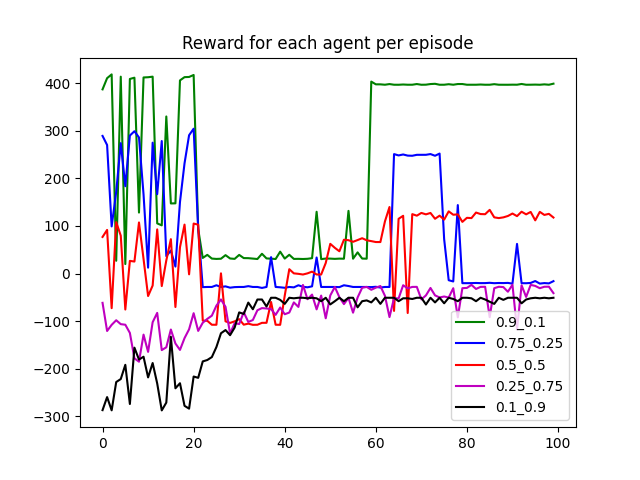
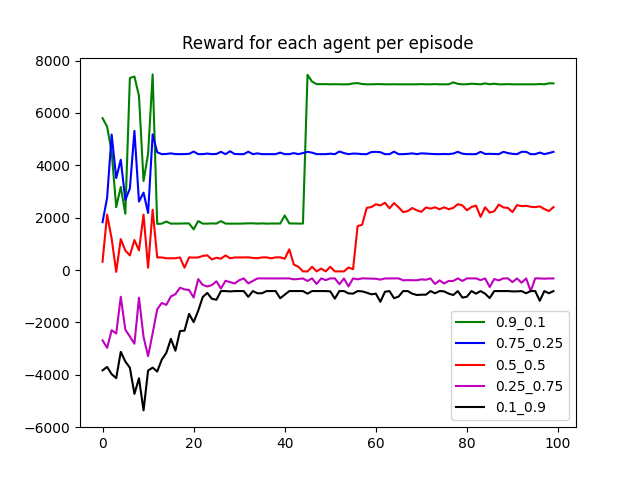
managed to train agents successfully

diff --git a/train/env/ModelEnv.py b/train/env/ModelEnv.py
@@ -119,20 +119,20 @@ class ModelEnv(gym.Env):
                 if type(module) in self.quantizable_acts:
                     self.quantizable_idx.append(i)
                     self.layer_types.append(type(module))
-                    this_state.append(i) # + 1 because we are going to add input quantizer
-                    this_state.append(1)
+                    this_state.append([i]) # + 1 because we are going to add input quantizer
+                    this_state.append([1])
                     
                     if type(module) == nn.ReLU or type(module) == qnn.QuantReLU:
-                        this_state.append(ActTypes.RELU)
+                        this_state.append([ActTypes.RELU])
                     elif type(module) == nn.ReLU6 or type(module) == qnn.QuantReLU:
-                        this_state.append(ActTypes.RELU6)
+                        this_state.append([ActTypes.RELU6])
                     elif type(module) == nn.Sigmoid or type(module) == qnn.QuantSigmoid:
-                        this_state.append(ActTypes.SIGMOID)
+                        this_state.append([ActTypes.SIGMOID])
 
                     weights = prev_module.weight
                     _, fan_out = nn.init._calculate_fan_in_and_fan_out(weights)
-                    this_state.append(fan_out)
-                    this_state.append(fan_out)
+                    this_state.append([fan_out])
+                    this_state.append([fan_out])
                     layer_embedding.append(np.hstack(this_state))
 
                 # get fan in and fan out of previous layer with learnable parameters
@@ -149,26 +149,26 @@ class ModelEnv(gym.Env):
                 if type(module) in self.quantizable_layers:
                     self.quantizable_idx.append(i)
                     self.layer_types.append(type(module))
-                    this_state.append(i)
-                    this_state.append(0)
+                    this_state.append([i])
+                    this_state.append([0])
 
                     if type(module) == nn.Linear or type(module) == qnn.QuantLinear:
-                        this_state.append(LayerTypes.LINEAR)
+                        this_state.append([LayerTypes.LINEAR])
                     elif type(module) == nn.MultiheadAttention or type(module) == qnn.QuantMultiheadAttention:
-                        this_state.append(LayerTypes.MHA)
+                        this_state.append([LayerTypes.MHA])
                     elif type(module) == nn.Conv1d or type(module) == qnn.QuantConv1d:
-                        this_state.append(LayerTypes.CONV1D)
+                        this_state.append([LayerTypes.CONV1D])
                     elif type(module) == nn.Conv2d or type(module) == qnn.QuantConv2d:
-                        this_state.append(LayerTypes.CONV2D)
+                        this_state.append([LayerTypes.CONV2D])
                     elif type(module) == nn.ConvTranpose1d or type(module) == qnn.QuantConvTranspose1d:
-                        this_state.append(LayerTypes.CONVTRANSPOSE1D)
+                        this_state.append([LayerTypes.CONVTRANSPOSE1D])
                     elif type(module) == nn.ConvTranspose2d or type(module) == qnn.QuantConvTranspose2d:
-                        this_state.append(LayerTypes.CONVTRANSPOSE2D)
+                        this_state.append([LayerTypes.CONVTRANSPOSE2D])
 
                     weights = module.weight
                     fan_in, fan_out = nn.init._calculate_fan_in_and_fan_out(weights)
-                    this_state.append(fan_in)
-                    this_state.append(fan_out)
+                    this_state.append([fan_in])
+                    this_state.append([fan_out])
                     layer_embedding.append(np.hstack(this_state))
 
         layer_embedding = np.array(layer_embedding, dtype=np.float32)
@@ -246,6 +246,7 @@ class ModelEnv(gym.Env):
 
         self.action_running_mean = ((action[0]) / (self.max_bit) + (self.cur_ind) * self.action_running_mean) / (self.cur_ind + 1)
         reward = self.reward(acc)
+        print(reward)
 
         if self.is_final_layer():
             obs = self.layer_embedding[self.cur_ind, :].copy()
@@ -262,8 +263,8 @@ class ModelEnv(gym.Env):
         return obs, reward, terminated, False, info
         
     def reward(self, acc):
-        r1 = acc
-        r2 = -(self.action_running_mean) * 100
+        r1 = acc * 10
+        r2 = -(self.action_running_mean) * 1000
         return (np.array([r1, r2]) * self.utility_weights).sum()
 
     def get_action(self, action):

diff --git a/train/quantizer/Quantizer.py b/train/quantizer/Quantizer.py
@@ -329,7 +329,7 @@ class Quantizer(object):
                 module = get_module(model, node.target)
                 if isinstance(module, tuple(layer_map.keys())):
                     quant_module_class, quant_module_kwargs = layer_map[type(module)]
-                    quant_module_kwargs['act_bit_width'] = act_bit_width
+                    quant_module_kwargs['bit_width'] = act_bit_width
                     quant_module = quant_module_class(**quant_module_kwargs)
 
                     if len(node.users) == 1:

diff --git a/train.py b/train.py
@@ -89,7 +89,7 @@ def main():
         agents.append(DDPG("MlpPolicy", envs[-1], action_noise = action_noise, verbose = 1))
     
     for i, agent in enumerate(agents):
-        agent.learn(total_timesteps = len(envs[i].quantizable_idx) * 1, log_interval = 5)
+        agent.learn(total_timesteps = len(envs[i].quantizable_idx) * 100, log_interval = 10)
         agent.save("agents/agent_{}_{}".format(weights[i][0], weights[i][1]))
 
         '''

diff --git a/createPareto.py b/createPareto.py
@@ -18,7 +18,7 @@ colors = ['g', 'b', 'r', 'm', 'k']
 plt.figure()
 
 for i, weight in enumerate(weights):
-	agent = pd.read_csv(f'agent_{weights[i][0]}_{weights[i][1]}.monitor.csv')
+	agent = pd.read_csv(f'agent_{weights[i][0]}_{weights[i][1]}.monitor.csv', skiprows=0, header = 1)
 	plt.plot(np.arange(100), agent['r'], c = colors[i], label = f'{weights[i][0]}_{weights[i][1]}')
 plt.title('Reward for each agent per episode')
 plt.legend()

diff --git a/train/utils/utils.py b/train/utils/utils.py
@@ -153,5 +153,4 @@ def measure_model(model, H, W, num_channels, quant_strategy = None, bias_quant =
     modify_forward(model)
     model.forward(data)
     restore_forward(model)
-
     return count_ops, count_params, count_params_size, count_activations_size
